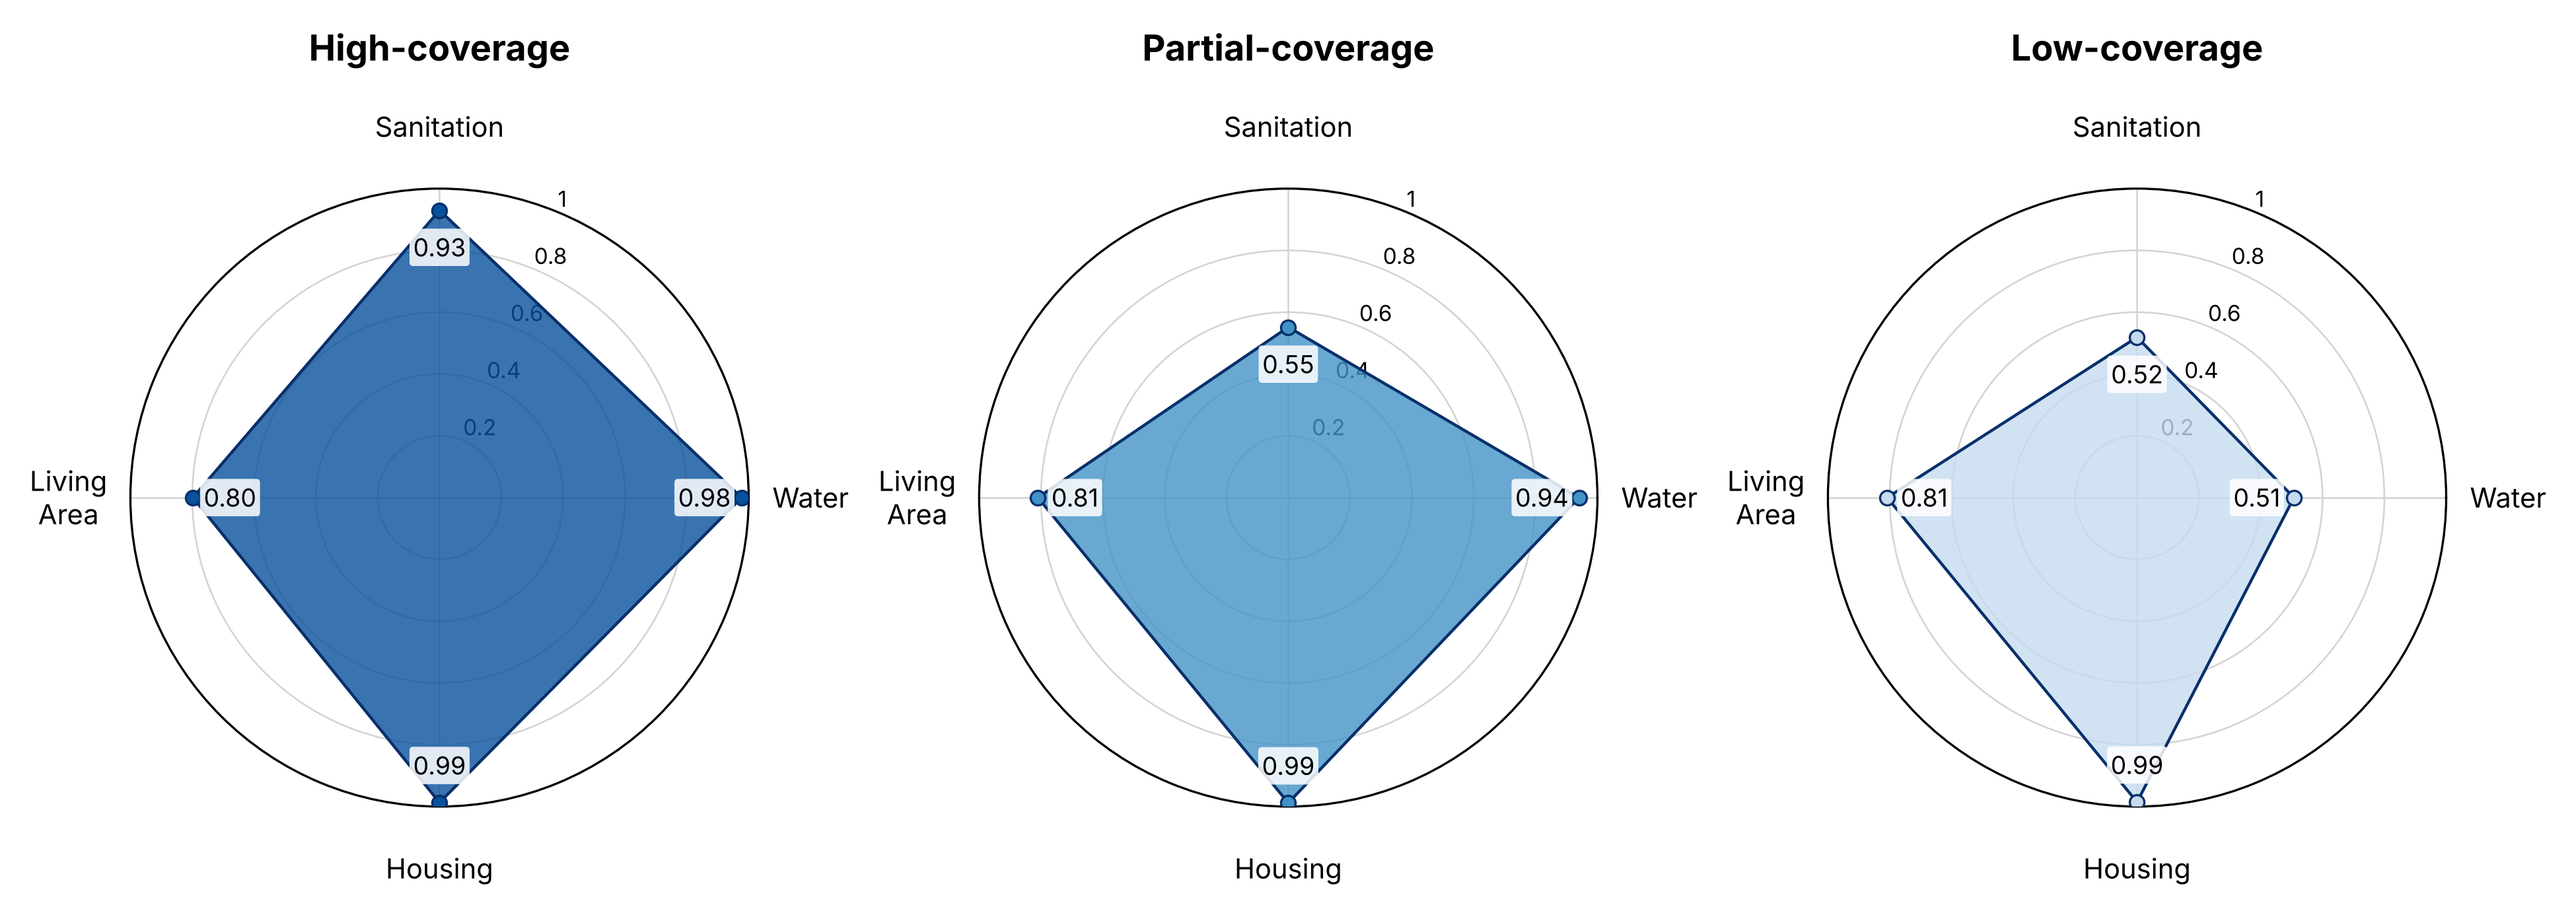
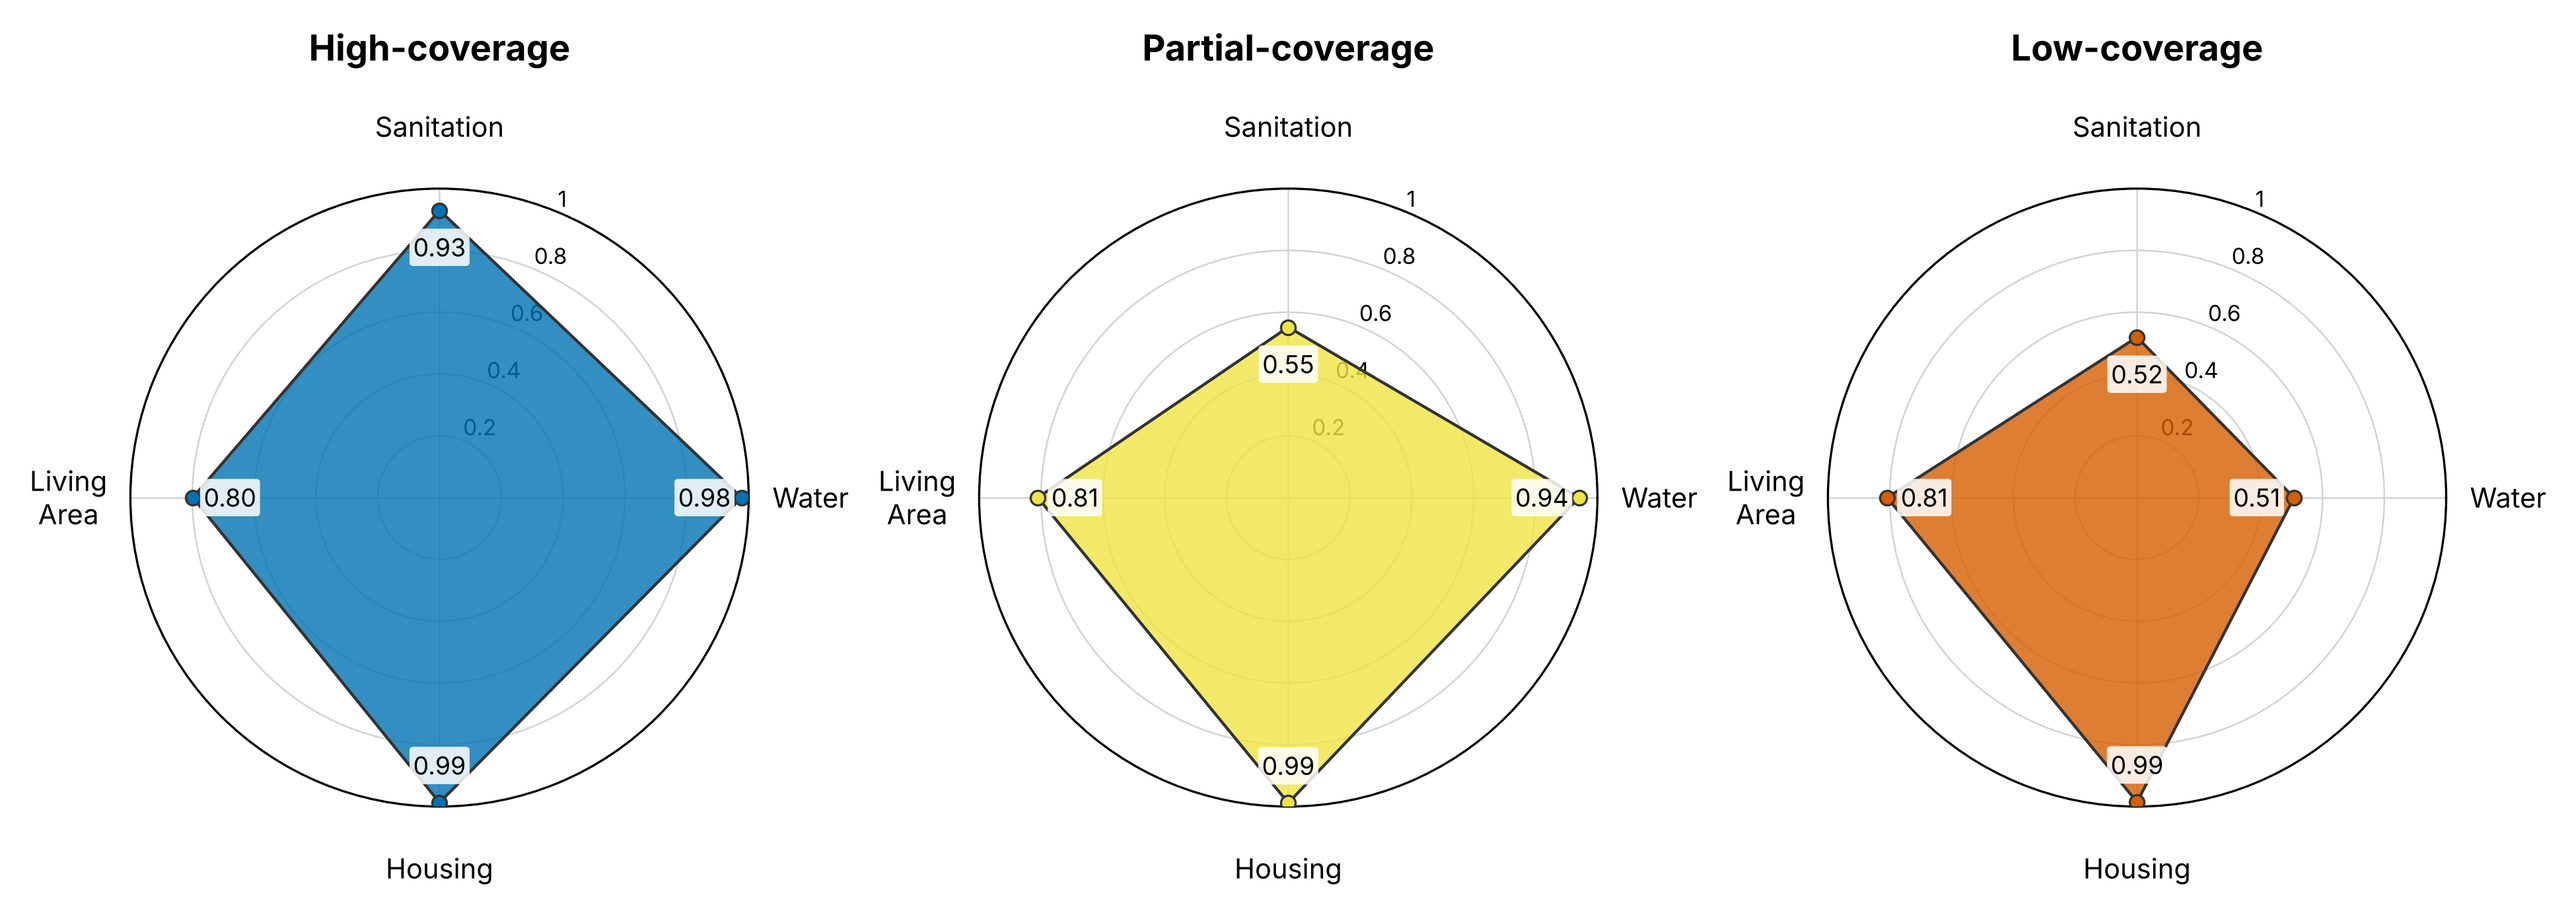
Regime palette: Okabe-Ito (#0072B2/#F0E442/#D55E00), same as Fig. 4; regenerate Figs. 2-3 previews
Claude-Session: https://claude.ai/code/session_01QtoYdRbTK1aSuu59mDSYQo

Changed region(s): [[0.0621, 0.2181, 0.2792, 0.8725], [0.4033, 0.3428, 0.6205, 0.8725], [0.7136, 0.3739, 0.8997, 0.8725]]

diff --git a/src/figures/palette.py b/src/figures/palette.py
@@ -1,9 +1,11 @@
-"""Shared palette for the three regimes (colour-blind-safe sequential blues).
+"""Shared palette for the three regimes (Okabe-Ito, colour-blind-safe, categorical).
 
-Reuse in Figs. 2, 3, 4 and 8b/c so the regimes look the same everywhere.
+Same colours as the QGIS map composition (Fig. 4); reuse in Figs. 2, 3 and 8b/c so
+each regime has the same colour everywhere. (Fig. 1 shows continuous indices and
+keeps a sequential Blues scale instead.)
 Keys follow the cluster ids of `cluster_3` in dataset/clusters/clusters.shp
 (0 = High-coverage, 1 = Partial-coverage, 2 = Low-coverage).
 """
 REGIME_NAMES = {0: "High-coverage", 1: "Partial-coverage", 2: "Low-coverage"}
-REGIME_COLORS = {0: "#08519C", 1: "#4292C6", 2: "#C6DBEF"}
-REGIME_EDGE = "#08306B"  # thin outline, keeps the lightest blue visible on white
+REGIME_COLORS = {0: "#0072B2", 1: "#F0E442", 2: "#D55E00"}
+REGIME_EDGE = "#333333"  # thin dark outline, keeps the yellow visible on white
